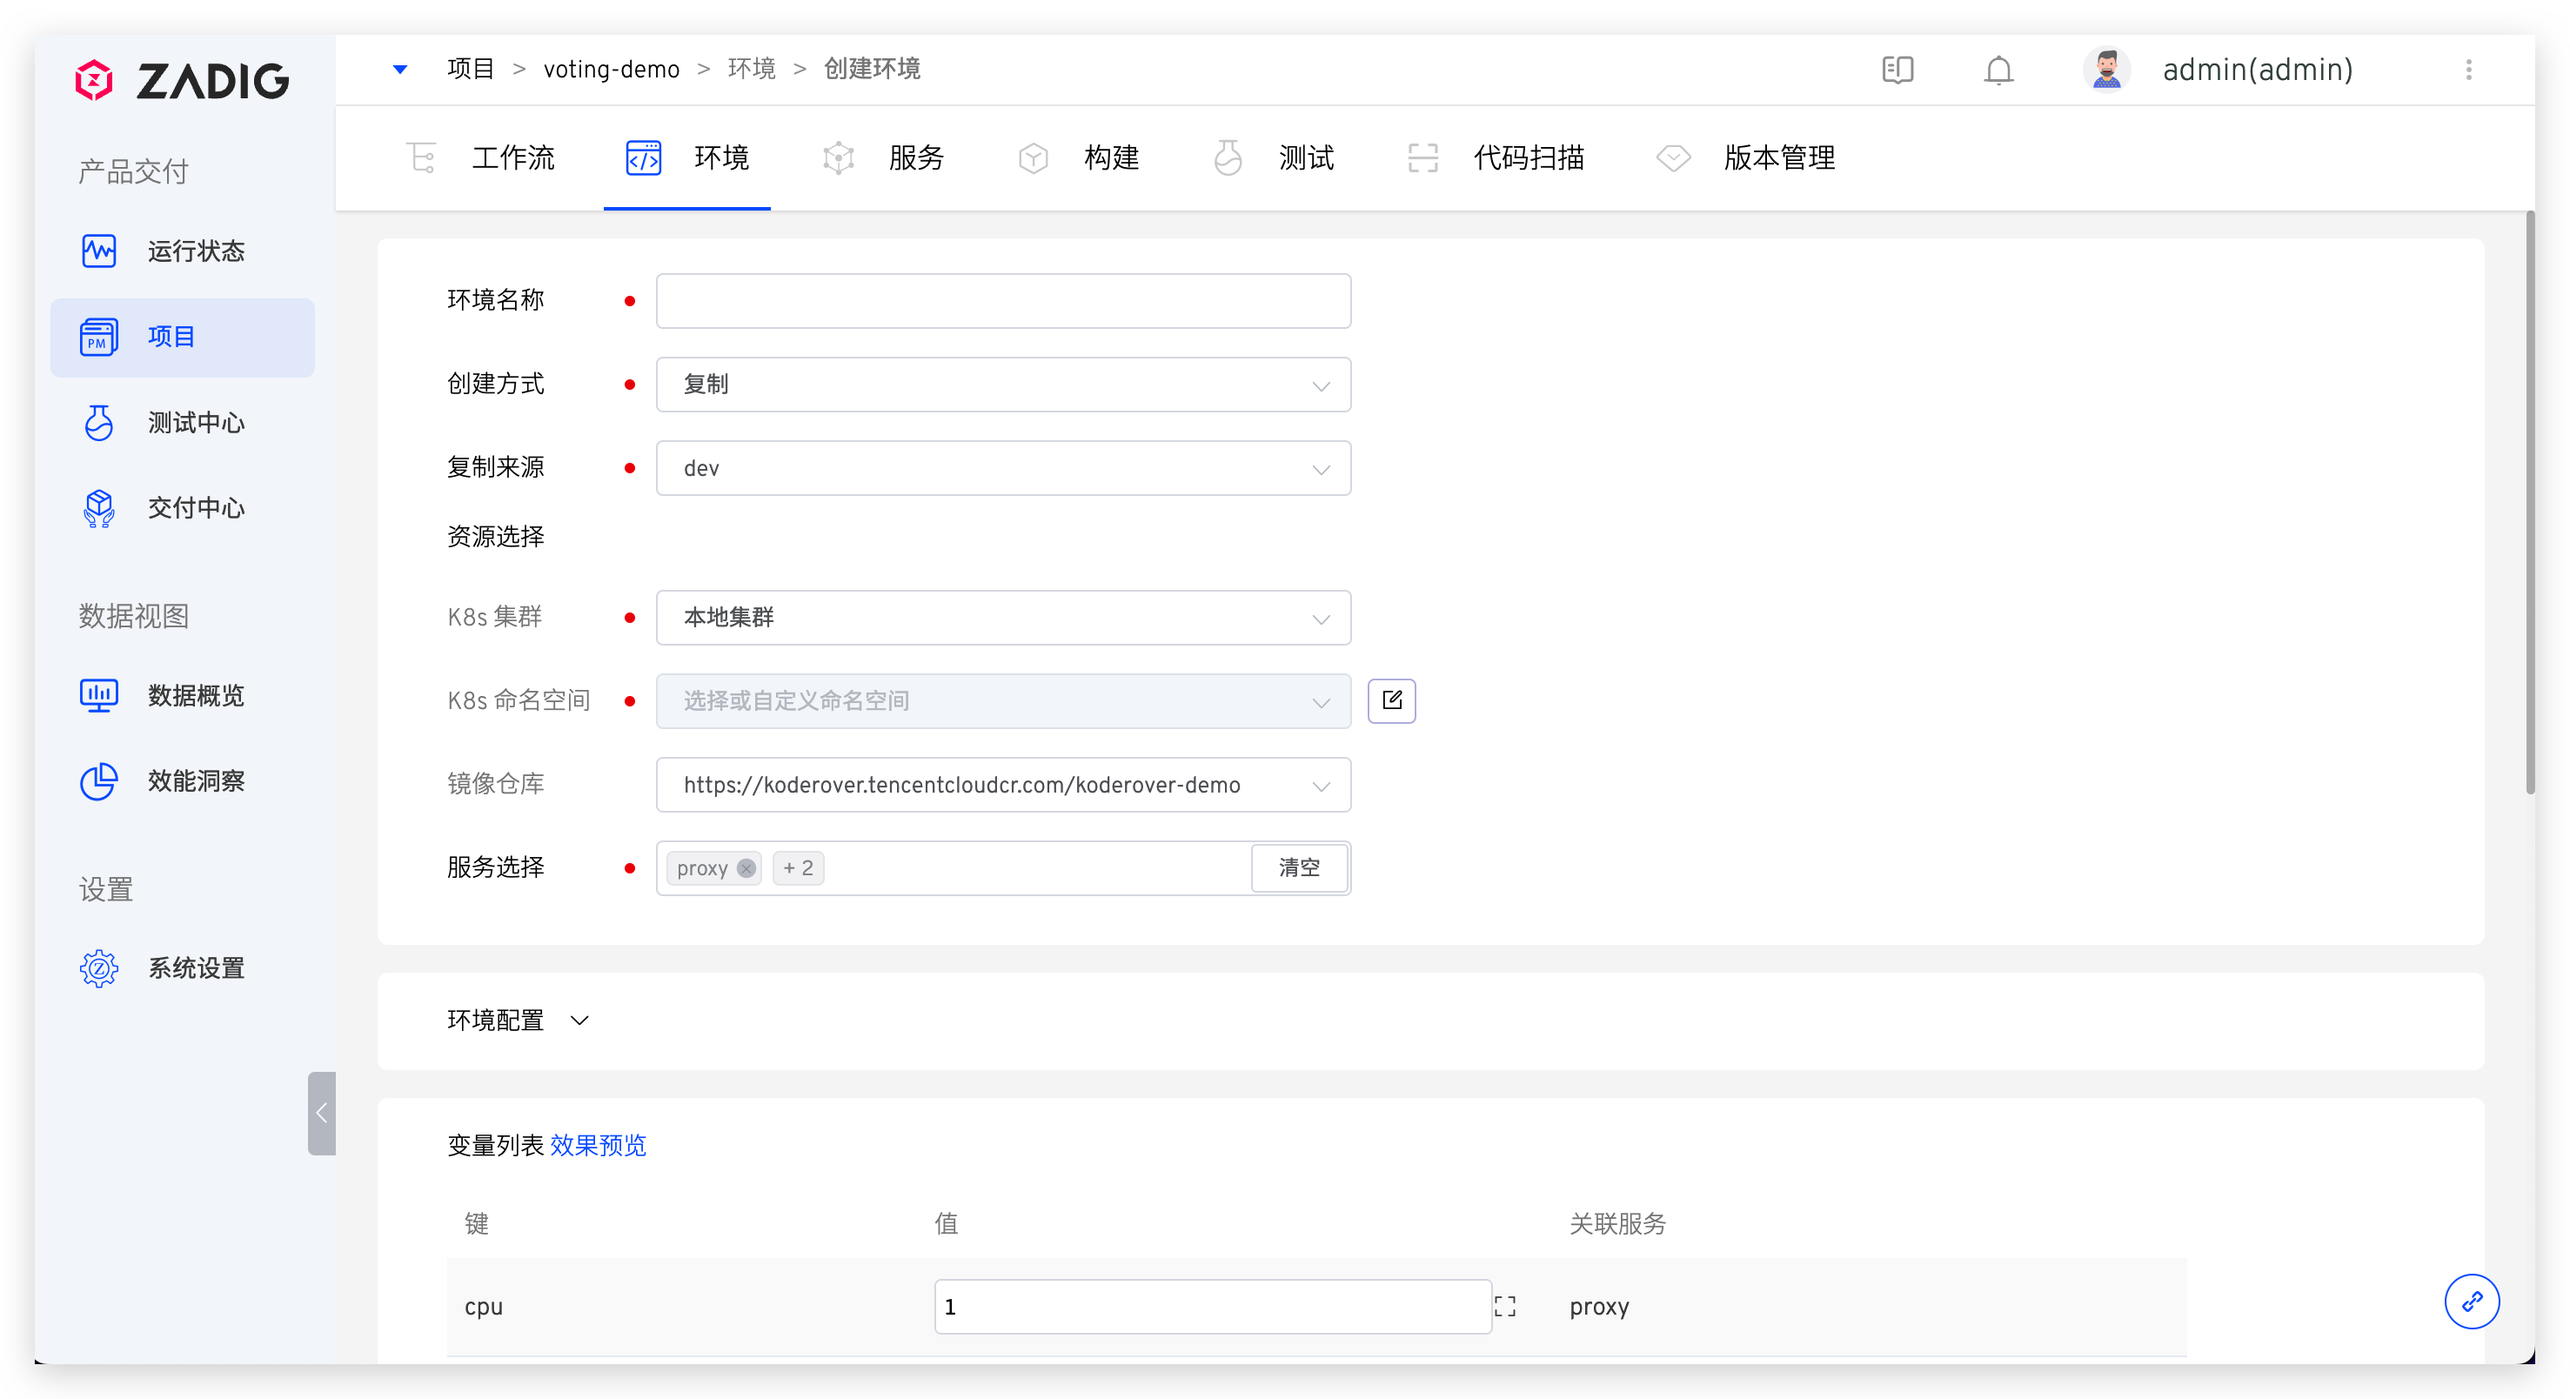
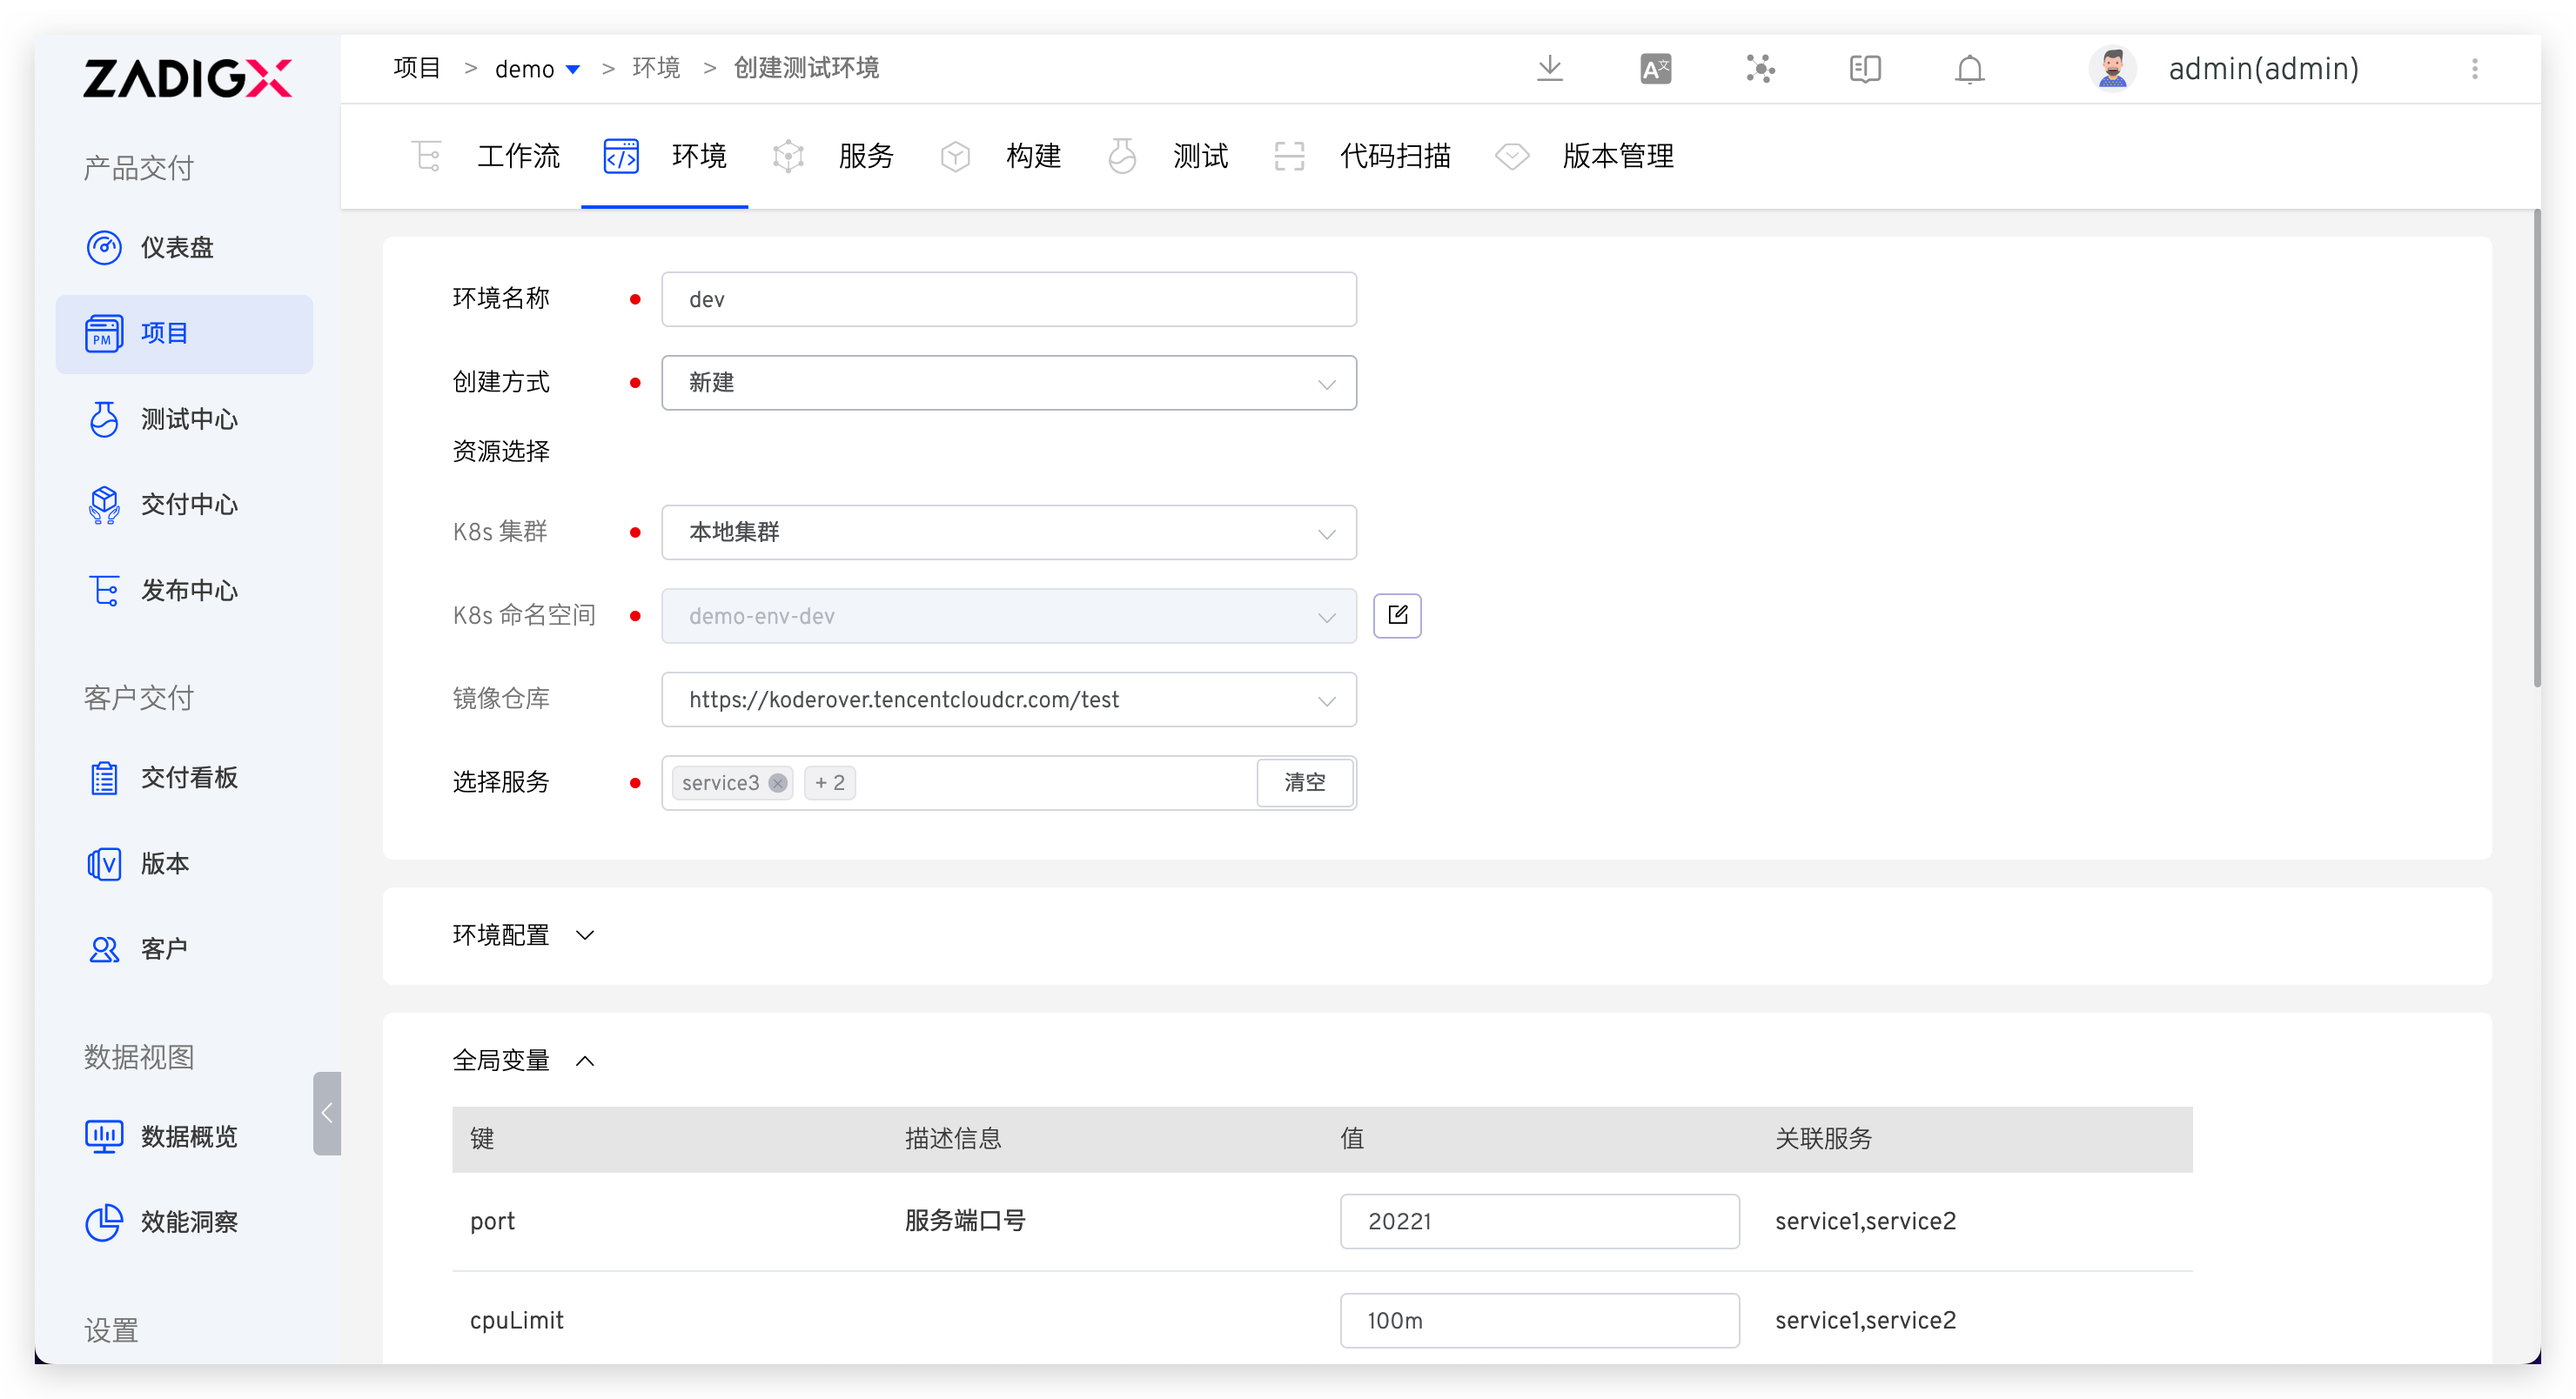
update var in env

diff --git a/ZadigX v1.5.0/05.功能介绍/03.环境/01.k8s_environment.md b/ZadigX v1.5.0/05.功能介绍/03.环境/01.k8s_environment.md
@@ -6,22 +6,23 @@ permalink: /ZadigX v1.5.0/project/env/k8s/
 
 本文主要介绍 K8s YAML 项目中的环境相关操作。
 
-## 创建环境
-在项目中，点击`创建环境`按钮，选择测试环境后进入创建环境页面。（生产环境相关内容可查看：[生产环境](/ZadigX%20v1.5.0/project/env/release/)）
+## 新建环境
+
+::: tip
+1. 在将指定的服务部署到新创建的环境中前，系统会使用 dryRun 参数对相关对象进行预览，若有提示报错请检查服务配置是否合法。
+2. 服务数量以及启动服务所需的资源会影响环境的创建时间，请耐心等待。
+:::
+
+在项目中，点击`新建环境`按钮，选择测试环境后进入创建环境页面。（生产环境相关内容可查看：[生产环境](/ZadigX%20v1.5.0/project/env/release/)）
 
 ![新建环境](../_images/create_env.png)
 
 ![新建环境](../_images/create_env_1.png)
 
-
 ### 基本信息
 
-- `环境名称`：要创建的环境的名称，比如：`dev`、`pre-release`。
-- `创建方式`：包括`新建`、`复制`和`回溯`三种方式。
-	- `新建`：创建新的环境。
-	- `复制`：基于已有的环境，复制一份新环境。新环境的 K8s 集群、镜像仓库、可选服务、服务镜像版本以及服务的配置默认和被复制环境一致。
-	- `回溯`：当使用交付物部署工作流创建过版本后，可通过回溯的方式创建指定版本的环境，参考[版本回溯](/ZadigX%20v1.5.0/project/version/#版本回溯)。
-- `复制来源`：当创建方式为`复制`时需选择，指定复制环境的来源。
+- `环境名称`：要创建的环境的名称，根据实际语义配置即可，比如：`dev`、`pre-release`。
+- `创建方式`：选择`新建`、`复制`和`回溯`三种方式。
 - `资源选择`：
 	- `K8s 集群`：选择创建环境时所使用的集群资源，其中`本地集群`指 ZadigX 系统所在的集群。关于集群的集成可参考[集群管理](/ZadigX%20v1.5.0/pages/cluster_manage/)。
 	- `K8s 命名空间`：不同的环境会使用独立的 Kubernetes 命名空间实现隔离。ZadigX 系统创建命名空间的默认规则为 `项目名-env-环境名`，用户也可以自定义或者选择已有命名空间。
@@ -37,28 +38,55 @@ permalink: /ZadigX v1.5.0/project/env/k8s/
 
 ![新建环境配置](../_images/add_k8s_yaml_env_config.png)
 
-### 变量列表
+### 全局变量
 
-> 此处的变量列表包括服务配置中的[自定义变量](/ZadigX%20v1.5.0/project/service/#变量配置)，创建服务时可以按需设置其默认值。
+创建环境时可按需对全局变量的默认值做覆盖，实现不同环境的差异化配置。
 
-在创建环境时可以按需对默认值做覆盖，实现对不同环境的服务进行差异化配置。
+1. 需要事先在服务配置中配置全局变量，参考文档：[配置全局变量](/ZadigX%20v1.5.0/project/service/k8s/#全局变量)
+2. 可以使用服务配置中的系统内置变量来为全局变量赋值，系统内置变量可参考：[服务变量 > 系统内置变量](/ZadigX%20v1.5.0/project/service/k8s/#系统内置变量)
+3. 只有和待创建环境中的服务有关联（即：[服务列表](#服务列表) 中有服务变量使用）的全局变量才可以在创建环境时指定
+
+![配置全局变量](../_images/config_k8s_yaml_env_var.png)
 
 ### 服务列表
 
-该部分可以让用户自定义服务所使用的镜像，与此同时，平台提供 2 个快捷选项：
+该部分可以让用户自定义服务所使用的镜像和变量。
 
-- `全容器-智能选择镜像`：给每个容器自动选择镜像仓库中最新的镜像版本。
-- `全容器-全部默认镜像`：给每个容器选择服务 YAML 中配置的镜像版本。
+在 `快速过滤` 中配置镜像：
 
-### 开始创建
-输入环境名称等必要信息后，点击`立即创建`按钮即可开始创建环境。
+- `全容器-智能选择镜像`：给每个容器自动选择镜像仓库中最新的镜像版本，镜像仓库在 [基本信息](/ZadigX%20v1.5.0/project/env/k8s/#基本信息) 中指定
+- `全容器-全部默认镜像`：给每个容器选择服务 YAML 中配置的镜像版本
 
-::: tip
-1. 在将指定的服务部署到新创建的环境中前，系统会使用 dryRun 参数对相关对象进行预览，若有提示报错请检查服务配置是否合法。
-2. 服务数量以及启动服务所需的资源会影响环境的创建时间，请耐心等待。
-:::
+在 `变量配置` 中为服务变量赋值，可以使用全局变量或手动设置。
+
+> 提示：环境创建完毕后，也可以在环境中修改服务的变量配置，重新指定是否使用全局变量。
+
+![新建环境配置](../_images/servicelist.png)
+
+## 复制环境
+
+> 基于已有的环境，复制一份新环境。新环境的 K8s 集群、镜像仓库、全局变量、服务列表、服务镜像版本以及服务的配置默认和被复制环境一致。
+
+在项目中，点击`新建环境`按钮，选择测试环境后进入创建环境页面。
+
+![复制环境](../_images/create_env.png)
+
+![复制环境](../_images/create_env_by_copy.png)
+
+参数说明：
+
+- `环境名称`：自定义，根据实际语义配置
+- `创建方式`：选择`复制`
+- `复制来源`：选择被复制的环境
+- `资源选择`：参考 [新建环境 > 基本信息](/ZadigX%20v1.5.0/project/env/k8s/#基本信息) 中的描述
+- `选择服务`：默认和被复制环境中的一致，可手动删除
+- `环境配置`：参考 [新建环境 > 环境配置](/ZadigX%20v1.5.0/project/env/k8s/#环境配置) 中的描述
+- `全局变量`：默认和被复制环境中的一致，可手动修改
+- `服务列表`：默认和被复制环境中的一致，可手动修改
 
 ## 查看环境
+
+<!-- TODOTODOTODOTODOTODOTODO -->
 
 环境创建完成后，点击不同的环境 Tab 即可切换到该环境的详情页面。
 

diff --git a/ZadigX v1.5.0/05.功能介绍/04.服务/01.k8s_service.md b/ZadigX v1.5.0/05.功能介绍/04.服务/01.k8s_service.md
@@ -197,32 +197,33 @@ permalink: /ZadigX v1.5.0/project/service/k8s/
 ![K8s 服务编排](../_images/k8s_service_orchestration_1.png)
 
 ## 变量配置
-包括[系统内置变量](#系统内置变量)和[自定义变量](#自定义变量)，可在服务 YAML 中进行引用，其中容器名称和镜像信息中只能使用内置变量 `$Product$` 和 `$Service$`。
+包括[系统内置变量](#系统内置变量)、[自定义变量](#自定义变量)和[全局变量](#全局变量)。
+- 系统内置变量和自定义变量可在服务 YAML 配置中进行引用
+- 服务的 YAML 配置中，容器名称和镜像信息不可使用内置变量 `$Namespace$` 和 `$EnvName$`
+- 支持配置全局变量，创建环境时可按需对默认值做覆盖，实现不同环境的差异化配置
 
 ![变量](../_images/var.png)
 
 ### 系统内置变量
 包括 `$Namespace$`、`$Product$`、`$Service$`、`$EnvName$`，可直接在 YAML 中进行引用，具体说明如下：
-
-  - `$Namespace$`：项目创建的环境所在的 K8s 空间名称，不可用于容器名称和镜像信息中
-  - `$Product$`：项目名称
-  - `$Service$`：服务名称
-  - `$EnvName$`：创建的环境名称，不可用于容器名称和镜像信息中
+- `$Namespace$`：项目创建的环境所在的 K8s 空间名称
+- `$Product$`：项目名称
+- `$Service$`：服务名称
+- `$EnvName$`：创建的环境名称
 
 ### 自定义变量
-1. 服务的 YAML 配置文件中形如 <span v-pre>`{{.Key}}`</span> 的内容可以自动解析为自定义变量。
-2. 点击自定义变量下方的`键值对`、`YAML 文件`图标可切换变量视图。
-3. 可修改服务变量的类型及默认值并校验正确性，支持字符串、枚举、布尔、YAML 四种类型。
+- 服务的 YAML 配置文件中形如 <span v-pre>`{{.Key}}`</span> 的内容可以自动解析为自定义变量。
+- 点击自定义变量下方的`键值对`、`YAML 文件`图标可切换变量视图。
+- 可修改服务变量的类型及默认值并校验正确性，支持字符串、枚举、布尔、YAML 四种类型。
 
 ![变量](../_images/var1.png)
 
 ### 全局变量
-
-点击自定义变量右侧的`配置全局变量`进行配置。
+选中一个服务，点击自定义变量右侧的`配置全局变量`进行配置。
 
 ![变量](../_images/public_var.png)
 
-添加全局变量，默认可选的键来自于所有服务的自定义变量（键名相同的变量视为同一个），也可以输入变量名来添加全局变量。
+添加全局变量，默认可选的键来自于所有服务的自定义变量（键名相同的变量视为同一个），也可以输入自定义键名来添加。
 
 ![变量](../_images/public_var_1.png)
 
